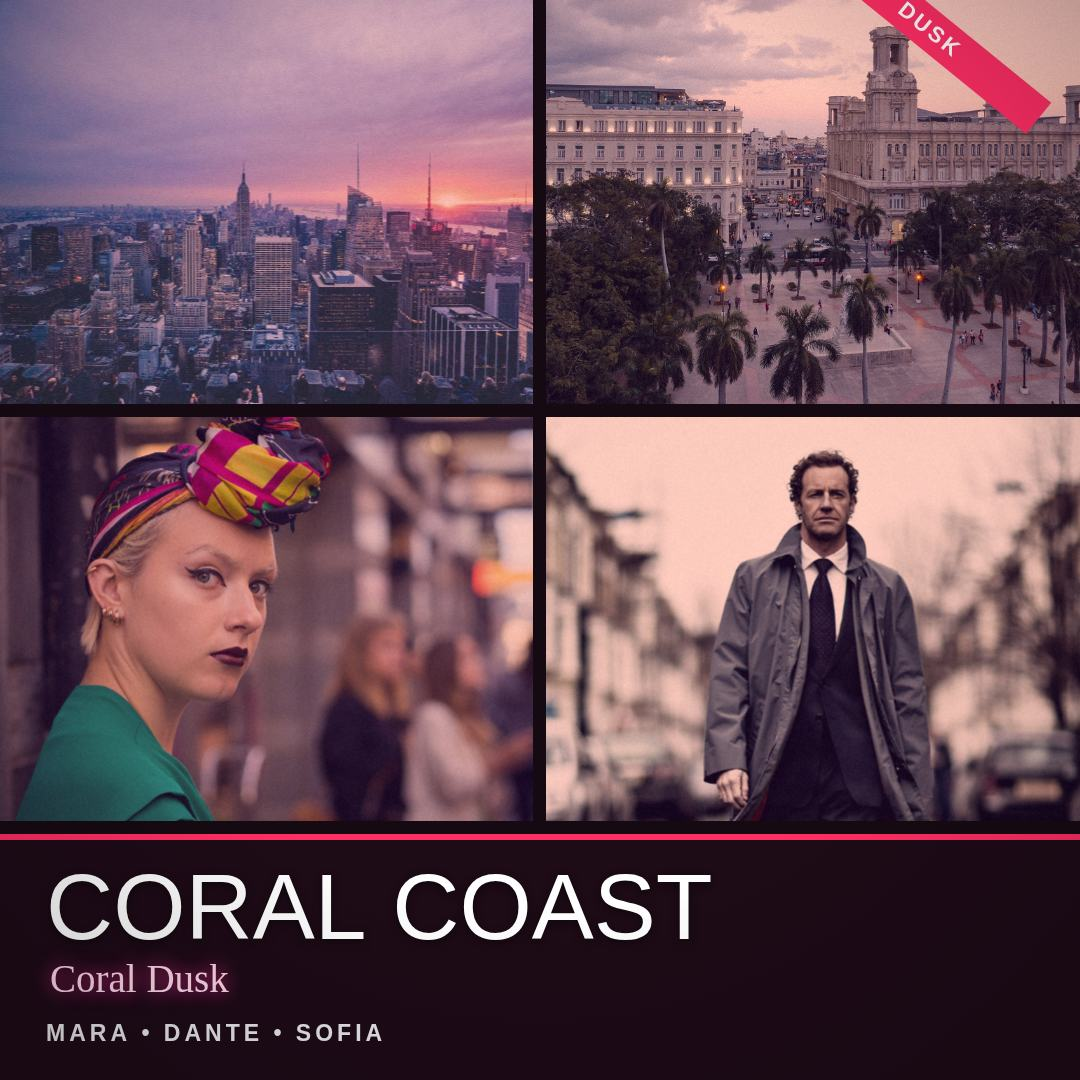
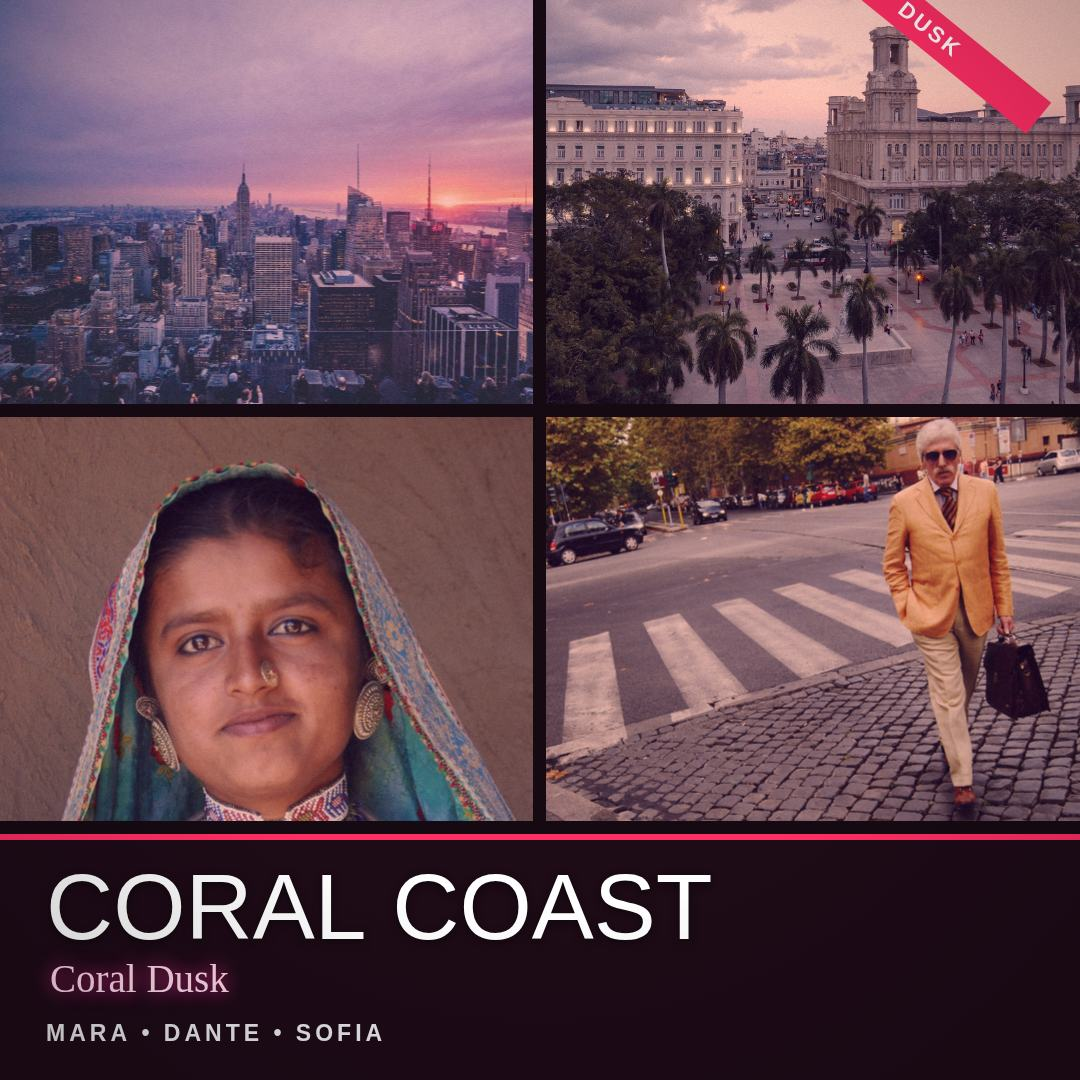
Coral Dusk Cover Studio: fix triptych crops — whole face for Mara, watermark-free Dante (new CC photos, triptych renders at 1.0x with subject-centred focus, seed wired to grain)

diff --git a/app/cover.js b/app/cover.js
@@ -254,7 +254,10 @@
   // ---------------------------------------------------------------- layouts
   // photos: { hero, plaza, mara, dante } — Image elements (or null).
   // Portrait panels pop out at 1.08; the wide hero stays at 1.0 so no
-  // feet or limbs are ever cropped by the zoom.
+  // feet or limbs are ever cropped by the zoom. The narrow triptych
+  // panels are the exception: they render at 1.0 with the focus
+  // centred on the subject, so a whole face and a whole body fit
+  // inside the thin slice.
   function renderPoster(canvas, opts) {
     var ctx = canvas.getContext('2d');
     var W = canvas.width;
@@ -275,7 +278,7 @@
     ctx.fillStyle = '#160a12';
     ctx.fillRect(0, 0, W, H);
 
-    function photo(img, x, y, w, h, kind) {
+    function photo(img, x, y, w, h, kind, extra) {
       if (!img) {
         ctx.fillStyle = '#2a1420';
         ctx.fillRect(x, y, w, h);
@@ -311,6 +314,11 @@
         o.anchorX = 'center';
         o.anchorY = 'center';
       }
+      // Layout-specific overrides (triptych focus/zoom): applied last
+      // so they win over the kind defaults above.
+      if (extra) {
+        for (var k in extra) { o[k] = extra[k]; }
+      }
       drawCoverImage(ctx, img, x, y, w, h, o);
     }
 
@@ -334,9 +342,14 @@
       drawTitleBlock(ctx, W, 0, heroH - Math.round(H * 0.22), W, text);
     } else if (layout === 'triptych') {
       var third = Math.floor((W - gap * 2) / 3);
-      photo(P.mara, 0, 0, third, H, 'portrait');
+      // Triptych panels are very narrow: at the 1.08x portrait pop-out
+      // the visible window is narrower than Mara's face and Dante's
+      // body, so both render at 1.0x with the focus centred on the
+      // subject — Mara's face (focusX 0.35) and Dante's body
+      // (focusX 0.84, head kept by anchorY 'start').
+      photo(P.mara, 0, 0, third, H, 'portrait', { zoom: 1.0, focusX: 0.35 });
       photo(P.hero, third + gap, 0, third, H, 'hero');
-      photo(P.dante, third * 2 + gap * 2, 0, W - third * 2 - gap * 2, H, 'portrait');
+      photo(P.dante, third * 2 + gap * 2, 0, W - third * 2 - gap * 2, H, 'portrait', { zoom: 1.0, focusX: 0.84, anchorY: 'start' });
       drawScrim(ctx, 0, H * 0.62, W, H * 0.38, 0.42);
       drawRibbon(ctx, W, H, 'DUSK');
       drawTitleBlock(ctx, W, 0, H * 0.68, W, text);

diff --git a/app/app.js b/app/app.js
@@ -10,8 +10,8 @@
   var SAMPLES = [
     { key: 'hero',  src: 'photos/1-skyline.jpg', label: 'Skyline — hero',  credit: 'Joseph Barrientos (CC0)' },
     { key: 'plaza', src: 'photos/2-plaza.jpg',   label: 'Plaza — boulevard', credit: 'Edgardo W. Olivera (CC BY 2.0)' },
-    { key: 'mara',  src: 'photos/3-mara.jpg',   label: 'Mara — portrait', credit: 'Thomas Leuthard (CC BY 2.0)' },
-    { key: 'dante', src: 'photos/4-dante.jpg',  label: 'Dante — portrait', credit: 'conorwithonen (CC BY 2.0)' }
+    { key: 'mara',  src: 'photos/3-mara.jpg',   label: 'Mara — portrait', credit: 'orange tuesday (CC BY 2.0)' },
+    { key: 'dante', src: 'photos/4-dante.jpg',  label: 'Dante — portrait', credit: 'sidewalk flying (CC BY 2.0)' }
   ];
 
   var EXPORT_SIZES = [
@@ -34,6 +34,10 @@
 
   var params = new URLSearchParams(window.location.search);
   var shotMode = params.get('shot') || '';
+  // The screenshot runner passes ?seed=N (shots.json): use it for the
+  // grain pass so a new seed really produces a new render.
+  var seedParam = parseInt(params.get('seed'), 10);
+  if (!isNaN(seedParam)) { state.seed = seedParam; }
 
   var canvas, ctx, statusEl;
 

diff --git a/app/index.html b/app/index.html
@@ -63,7 +63,7 @@
 
 <footer class="credits">
   <p>Coral Dusk Cover Studio &mdash; karya orisinal untuk bounty make.fun &ldquo;Make GTA 6 Cover Art&rdquo;. Semua nama, kota, dan tokoh adalah fiktif; tidak memakai nama, logo, atau aset Rockstar Games.</p>
-  <p>Foto: NYC skyline &copy; Joseph Barrientos (CC0) &middot; Parque Central, Havana &copy; Edgardo W. Olivera (CC BY 2.0) &middot; Potret wanita &copy; Thomas Leuthard (CC BY 2.0) &middot; Pria berjas &copy; conorwithonen (CC BY 2.0). Font: Anton &amp; Pacifico (SIL Open Font License).</p>
+  <p>Foto: NYC skyline &copy; Joseph Barrientos (CC0) &middot; Parque Central, Havana &copy; Edgardo W. Olivera (CC BY 2.0) &middot; Potret wanita &copy; orange tuesday (CC BY 2.0) &middot; Pria berjas &copy; sidewalk flying (CC BY 2.0). Font: Anton &amp; Pacifico (SIL Open Font License).</p>
 </footer>
 
 <script src="cover.js"></script>

diff --git a/main.ts b/main.ts
@@ -29,8 +29,8 @@ const DOSSIER = {
   photos: [
     { file: "photos/1-skyline.jpg", label: "Skyline — hero", credit: "Joseph Barrientos (CC0)" },
     { file: "photos/2-plaza.jpg", label: "Plaza — boulevard", credit: "Edgardo W. Olivera (CC BY 2.0)" },
-    { file: "photos/3-mara.jpg", label: "Mara — portrait", credit: "Thomas Leuthard (CC BY 2.0)" },
-    { file: "photos/4-dante.jpg", label: "Dante — portrait", credit: "conorwithonen (CC BY 2.0)" }
+    { file: "photos/3-mara.jpg", label: "Mara — portrait", credit: "orange tuesday (CC BY 2.0)" },
+    { file: "photos/4-dante.jpg", label: "Dante — portrait", credit: "sidewalk flying (CC BY 2.0)" }
   ],
   fonts: [
     { file: "fonts/Anton-Regular.ttf", license: "SIL Open Font License 1.1" },

diff --git a/README.md b/README.md
@@ -27,15 +27,17 @@ for the sample photos and fonts to load).
   smooth dusk skies grade into clean steps instead of muddy blotches, and a
   seeded grain pass breaks up any remaining banding
 - **Safe crops** — portrait panels pop out at 1.08x, the wide hero stays at
-  1.0x, and heads and feet are clamped inside the frame
+  1.0x, and heads and feet are clamped inside the frame; the narrow
+  triptych panels render at 1.0x with the focus centred on the subject,
+  so a whole face and a whole body fit inside the thin slice
 - **Export PNG** — Poster 1080&times;1350, Square 1080&times;1080, Wide 1920&times;1080, Story 1080&times;1920
 
 ## Sample photos (all freely licensed)
 
 - NYC skyline at dusk &mdash; Joseph Barrientos (CC0)
 - Parque Central, Havana &mdash; Edgardo W. Olivera (CC BY 2.0)
-- Street portrait &mdash; Thomas Leuthard (CC BY 2.0)
-- Man in a trench coat &mdash; conorwithonen (CC BY 2.0)
+- Street portrait &mdash; orange tuesday (CC BY 2.0)
+- Man in a tan suit, Rome &mdash; sidewalk flying (CC BY 2.0)
 
 Fonts: Anton and Pacifico (SIL Open Font License 1.1).
 
